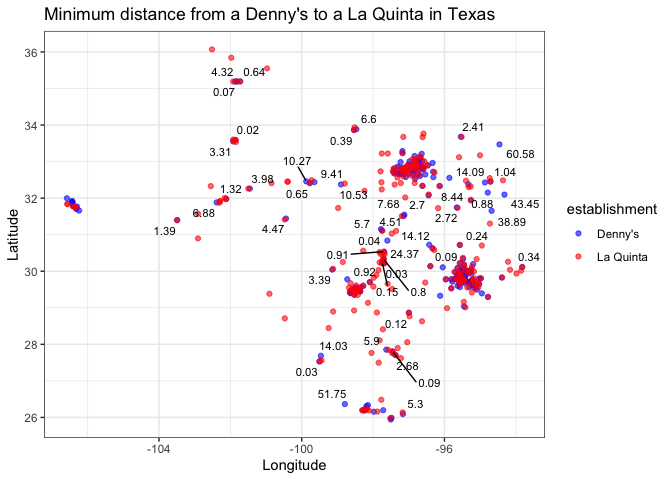
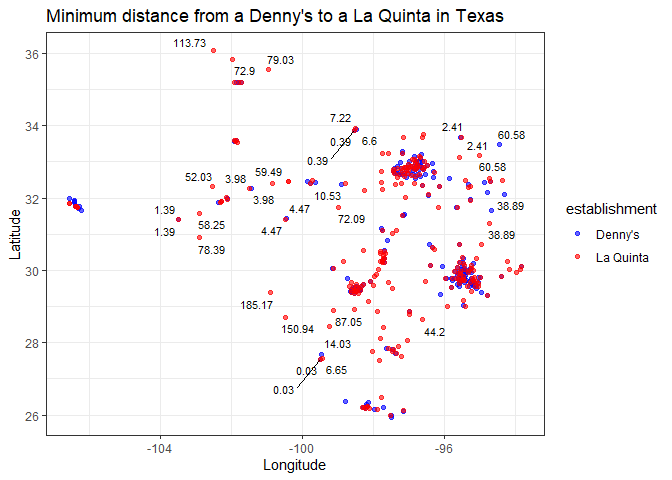
adding in missing locations

diff --git a/lab-05.md b/lab-05.md
@@ -164,13 +164,13 @@ dn_lq_tx_mindist %>%
 mean(dn_lq_tx_mindist$closest)
 ```
 
-    ## [1] 5.79215
+    ## [1] 11.34865
 
 ``` r
 sd(dn_lq_tx_mindist$closest)
 ```
 
-    ## [1] 8.830473
+    ## [1] 20.52603
 
 ``` r
 dn_lq_tx_mindist%>%
@@ -180,8 +180,8 @@ count(close)
     ## # A tibble: 2 × 2
     ##   close           n
     ##   <chr>       <int>
-    ## 1 Less than 5   126
-    ## 2 More than 5    74
+    ## 1 Less than 5   242
+    ## 2 More than 5   194
 
 The average distance from a Denny’s to a La Quinta is around 5.7 km,
 with the standard deviation being 8.83 km. By creating a variable that
@@ -309,6 +309,14 @@ can see that the bottom right corner of the state has several Denny’s
 without a La Quinta.
 
 ### Texas
+
+``` r
+anti_join(all_together, dn_lq_tx_mindist, by = "address") %>%
+  select(address)
+```
+
+    ## # A tibble: 0 × 1
+    ## # ℹ 1 variable: address <chr>
 
 ``` r
 TX_dataset %>%
